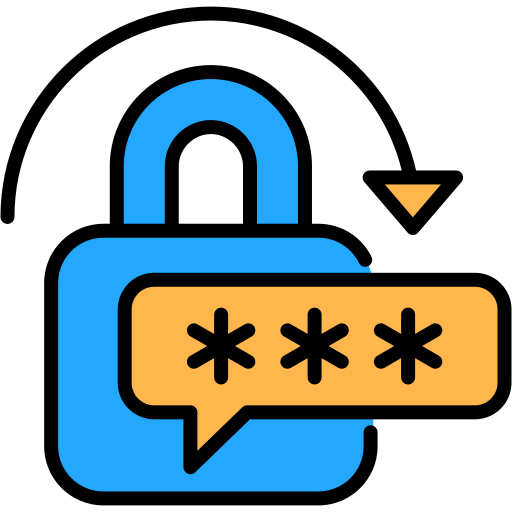
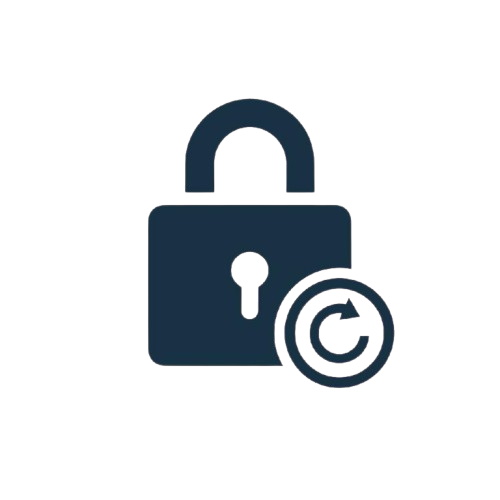
Final

diff --git a/src/app/ManageEmployee/manageemployee.tsx b/src/app/ManageEmployee/manageemployee.tsx
@@ -37,6 +37,7 @@ export default function CreateUD() {
   const [listener, setListener] = useState(false);
   const [user_privilege, setUserPrivilege] = useState([""]);
   const [resetPassword, setResetPassword] = useState(false);
+  const [update, setUpdate] = useState(false);
 
   const token = localStorage.getItem("token");
 
@@ -333,7 +334,7 @@ export default function CreateUD() {
                             style={{ border: "none", backgroundColor: "transparent", cursor: "pointer" }}
                             title={resetPassword ? "" : "Reset Password"}                           
                           >
-                            <i className="bi bi-arrow-counterclockwise" style={{ fontSize:'19px', color:'#033dfc'}}></i>
+                            <img src="/img/resetpassword.png" height={22} width={22}/>
                           </button>
                         )}
                         {user_privilege.includes("manage_users") && (
@@ -344,6 +345,7 @@ export default function CreateUD() {
                             className="edit-button ms-4"
                             onClick={() => handleData(info)}
                             style={{ cursor: "pointer", border: "none", backgroundColor: "transparent" }}
+                            title={update ? "" : "Update"}
                           >
                             <svg xmlns="http://www.w3.org/2000/svg" width="16" height="16" fill="currentColor" className="bi bi-pencil-square" viewBox="0 0 16 16">
                               <path d="M15.502 1.94a.5.5 0 0 1 0 .706L14.459 3.69l-2-2L13.502.646a.5.5 0 0 1 .707 0l1.293 1.293zm-1.75 2.456-2-2L4.939 9.21a.5.5 0 0 0-.121.196l-.805 2.414a.25.25 0 0 0 .316.316l2.414-.805a.5.5 0 0 0 .196-.12l6.813-6.814z" />
@@ -379,24 +381,24 @@ export default function CreateUD() {
         </div>
         <div className="manageemployee-div" style={{ display: "flex", justifyContent: "flex-end"}}>
           <div className="employee-total">
-            <p>Total: <span>{total}</span></p>
+            <p><i className="bi bi-people-fill"></i><span> Total: {total}</span></p>
           </div>
           <div className="employee-pagination">
             <nav aria-label="Page navigation">
               <ul className="pagination">
                 <li className={`page-item ${currentPage === 1 ? "disabled" : ""}`}>
                   <button className="page-link" onClick={() => handlePageChange(currentPage - 1)}>
-                    Previous
+                  <i className="bi bi-caret-left"></i>
                   </button>
                 </li>
                  <li className="page-item">
                   <span className="page-link" style={{whiteSpace:'nowrap'}}>
-                   Page {currentPage} of {totalPages}
+                  {currentPage} of {totalPages}
                   </span>
                 </li>
                 <li className={`page-item ${currentPage === totalPages ? "disabled" : ""}`}>
                   <button className="page-link" onClick={() => handlePageChange(currentPage + 1)}>
-                    Next
+                  <i className="bi bi-caret-right"></i>
                   </button>
                 </li>
               </ul>

diff --git a/src/app/ManageAccount/manageaccount.tsx b/src/app/ManageAccount/manageaccount.tsx
@@ -32,6 +32,7 @@ export default function ManageDepartment() {
     const [showModal, setShowModal] = useState(false);
     const [showDropDown, setShowDropdown] = useState(false);
     const [openDropdownId, setOpenDropdownId] = useState<number | null>(null);
+    const [add, setAdd] = useState(false);
 
     const router = useRouter();
     useEffect(() => {
@@ -446,6 +447,7 @@ export default function ManageDepartment() {
                                                         type="button"
                                                         className="accounts-edit"
                                                         style={{ cursor: "pointer" }}
+                                                        title={add ? "" : "Add"}
                                                     >
                                                         <i className="bi bi-plus-square"></i>
                                                     </button>

diff --git a/src/app/globals.css b/src/app/globals.css
@@ -302,7 +302,7 @@ input:focus {
   left: 50%;
   padding-left: 250px;
   white-space: nowrap;
-  transform: translate(0px, -6px);
+  transform: translate(0px, -3px);
 }
 
 .headerdown {
@@ -312,6 +312,7 @@ input:focus {
   font-size: 20px;
   font-weight: 300;
   padding-left: 250px;
+  transform: translateY(-6px);
   font-style: italic;
 }
 
@@ -937,7 +938,7 @@ table {
 
 .addhover {
   background-color: #0ebb39 !important;
-  padding: 8px !important;
+  padding: 10px !important;
   color: white;
   border: none;
   border-radius: 4px;
@@ -1130,7 +1131,7 @@ table {
   padding: 7px;
   border-radius: 4px;
   color: rgb(88, 87, 87);
-  right: 300px !important;
+  right: 190px !important;
   position: relative;
   top: 8px;
 }

diff --git a/src/app/Updatepassword/updatepassword.tsx b/src/app/Updatepassword/updatepassword.tsx
@@ -29,6 +29,9 @@ export default function Updatepassword() {
   const empno = localStorage.getItem("user_id");
   const handleSubmit = async (e: React.FormEvent) => {
     e.preventDefault();
+    if (password != confirmPassword) {
+      setMessage("Password Mismatch");
+    }
     async function changePassword() {
       const newAccount = {
         empno: Decryptor(empno || ""),
@@ -78,6 +81,7 @@ export default function Updatepassword() {
     setConfirmPassword("");
     setMessage("");
   };
+ 
   const validate = () => {
     const isValidPassword = (password: string) => {
       const regex = /^(?=.*[a-z])(?=.*[A-Z])(?=.*\d)(?=.*[@$!%*?&])[A-Za-z\d@$!%*?&]{8,}$/;
